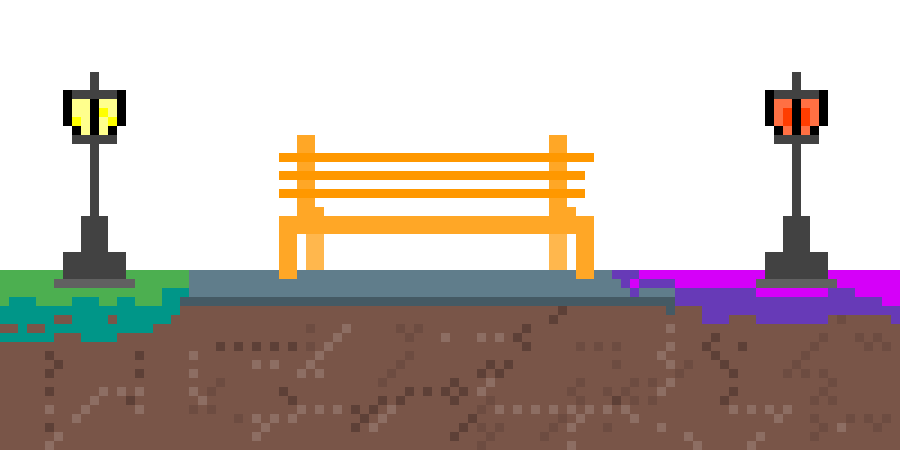
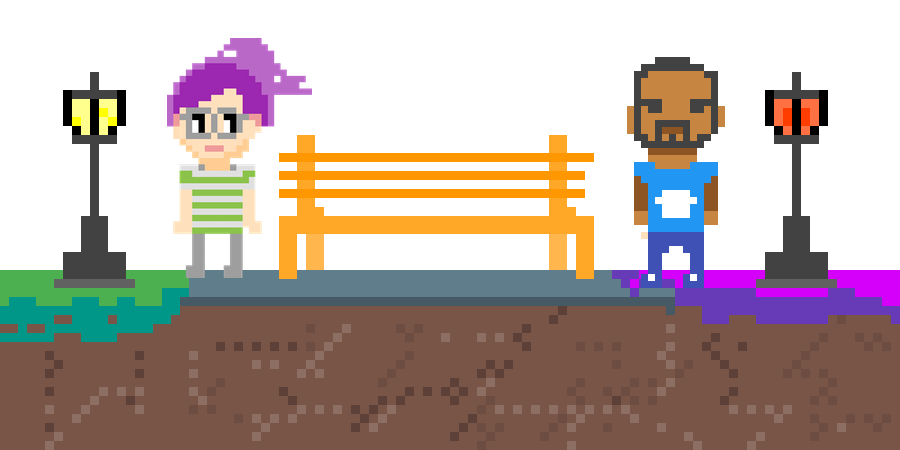
lots of small changes

Changed region(s): [[0.1867, 0.0622, 0.3422, 0.6222], [0.6844, 0.1244, 0.8089, 0.6533]]

diff --git a/src/js/components/Title.vue b/src/js/components/Title.vue
@@ -1,16 +1,34 @@
 <template>
   <el-row :gutter="20">
+
+    <h1>
+      <vue-typer text="Puzzled and Dating a Monster." :repeat="0"></vue-typer>
+    </h1>
+
     <el-col :span="12" :offset="6">
-      <vue-typer :text="titleText" @completed="ready = true" :repeat="0"></vue-typer>
+      <vue-typer
+        :text="titleText"
+        @completed="ready = true"
+        :repeat="0"
+        :pre-type-delay="3000"></vue-typer>
     </el-col>
 
+
     <transition name="fade">
-      <el-col v-show="ready" :span="24">
-        <el-button type="info" @click="next('female')">Start Female</el-button>
-        <el-button type="info" @click="next('male')">Start Male</el-button>
-      </el-col>
+      <el-row :gutter="20" v-show="ready">
+        <el-col :span="6" :offset="6" style="margin-top: 10px;">
+          <el-button type="info" @click="next('female')">Date Melinda</el-button>
+        </el-col>
+
+        <el-col :span="6" style="margin-top: 10px;">
+          <el-button type="info" @click="next('male')">Date Robert</el-button>
+        </el-col>
+
+      </el-row>
+
     </transition>
 
+    <img :src="require('../../assets/props/bench.png')">
   </el-row>
 </template>
 
@@ -24,7 +42,7 @@
 
     data() {
       return {
-        titleText: 'This is a placeholder text. This is a horror dating simulator.',
+        titleText: 'Small talk could save your life.',
         ready: false,
       };
     },
@@ -40,25 +58,35 @@
 <!-- Add "scoped" attribute to limit CSS to this component only -->
 <style>
   h1, h2 {
+    font-family: 'VT323', monospace;
     font-weight: normal;
   }
+
   ul {
     list-style-type: none;
     padding: 0;
   }
+
   li {
     display: inline-block;
     margin: 0 10px;
   }
+
   a {
     color: #42b983;
   }
-  .vue-typer{
+
+  .vue-typer {
     font-family: 'VT323', monospace;
   }
 
-  .vue-typer .custom.caret {
-    width: 10px;
-    background-color: #3F51B5;
+  .fade-enter-active, .fade-leave-active {
+    transition: opacity 1.5s;
   }
+
+  .fade-enter, .fade-leave-to /* .fade-leave-active below version 2.1.8 */
+  {
+    opacity: 0;
+  }
+
 </style>
